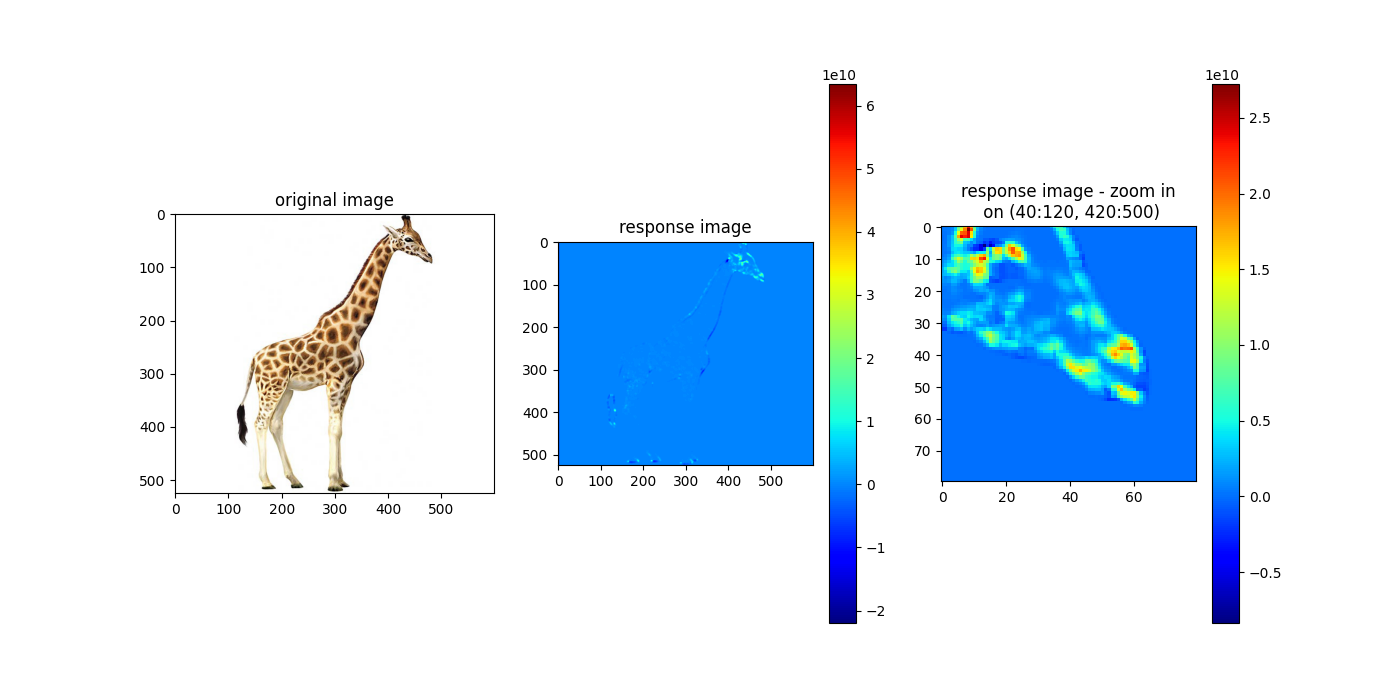
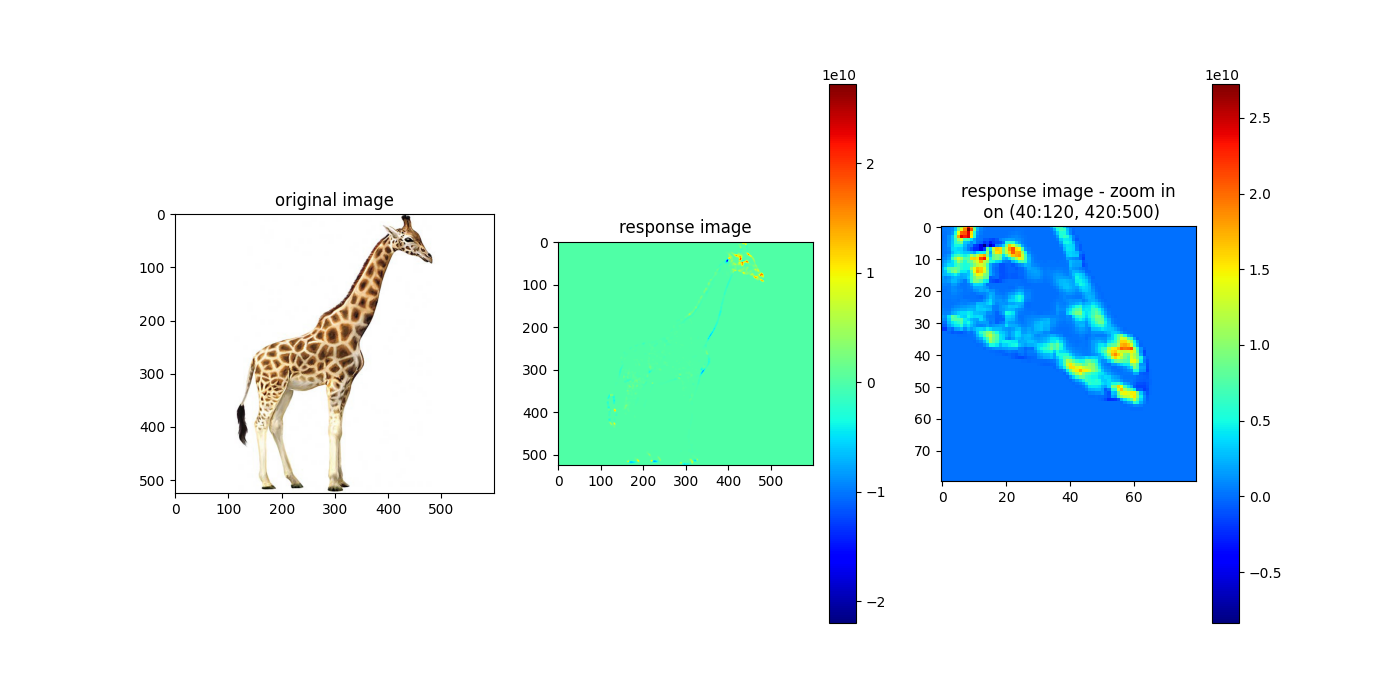
fixed the corner bug

Changed region(s): [[0.3993, 0.33, 0.5836, 0.69]]

diff --git a/harris_corner_detector.py b/harris_corner_detector.py
@@ -174,8 +174,8 @@ def create_grad_x_and_grad_y(
 
     Ix = input_image - offset_x
     Iy = input_image - offset_y
-    temp= Iy[1:,:]
-    temp2= Ix[:,1:]
+    Iy= np.vstack((added_y,Iy[1:,:]))#Iy[1:,:]
+    Ix=  np.column_stack((added_x,Ix[:,1:]))#Ix[:,1:]
     #Ix = np.random.uniform(size=(height, width))
     #Iy = np.random.uniform(size=(height, width))
     return Ix, Iy
